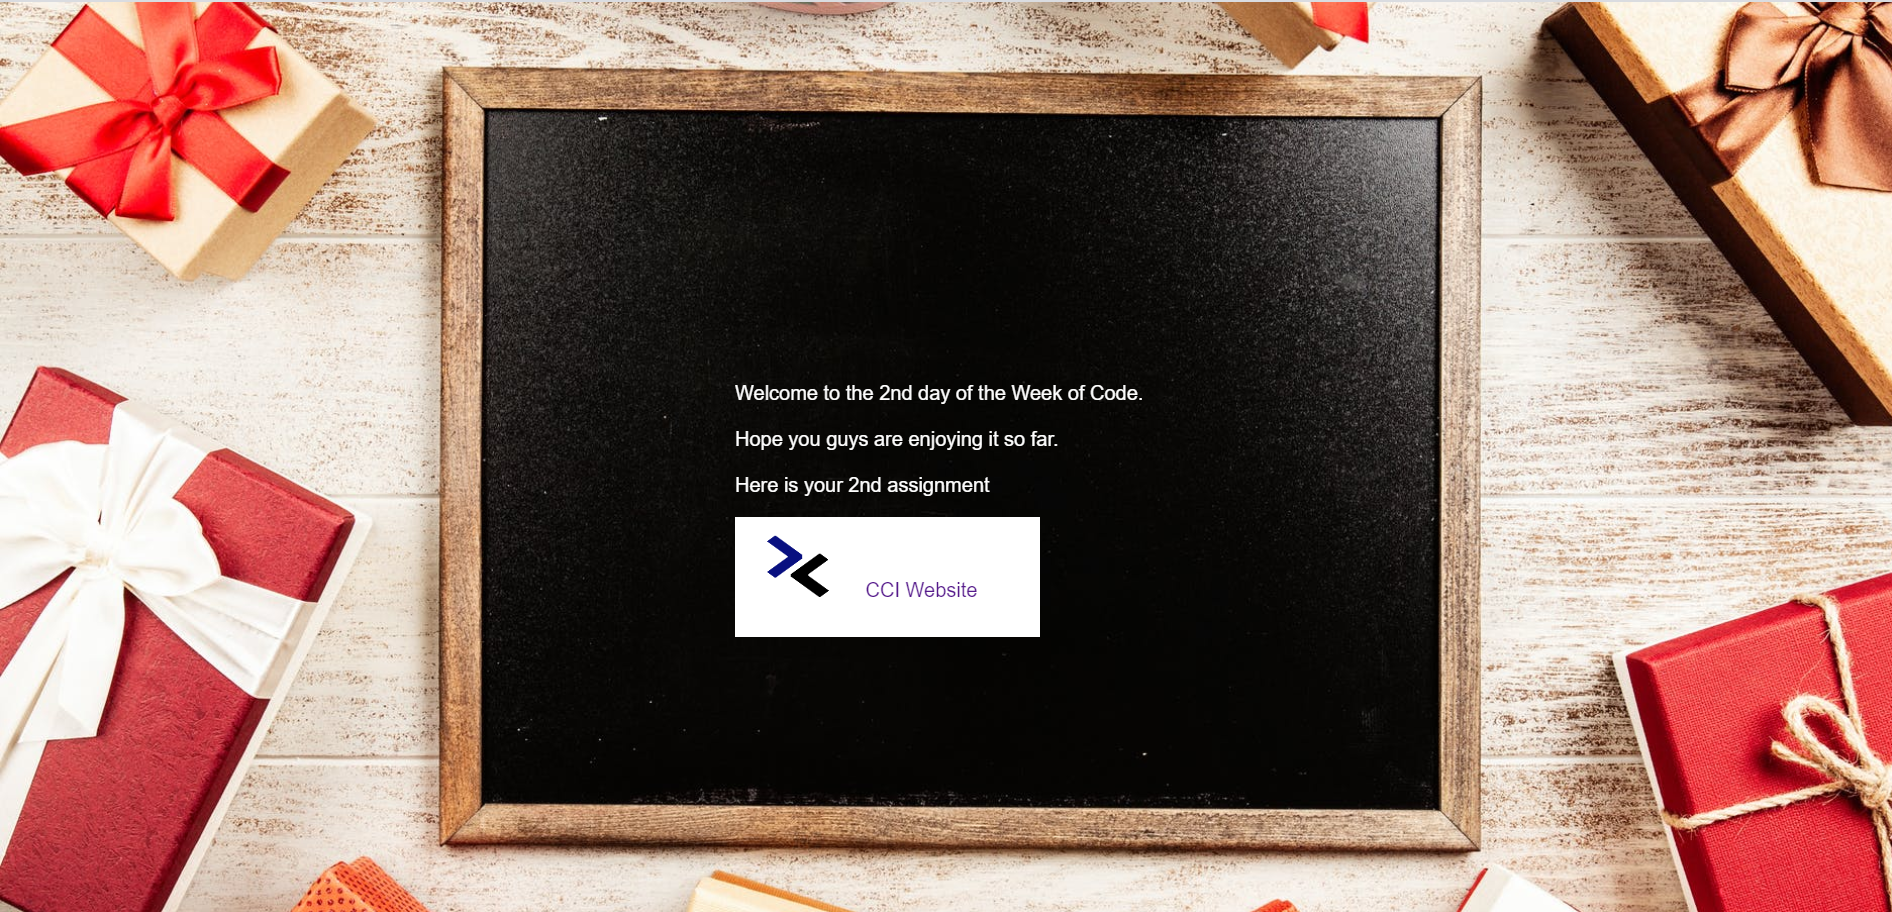
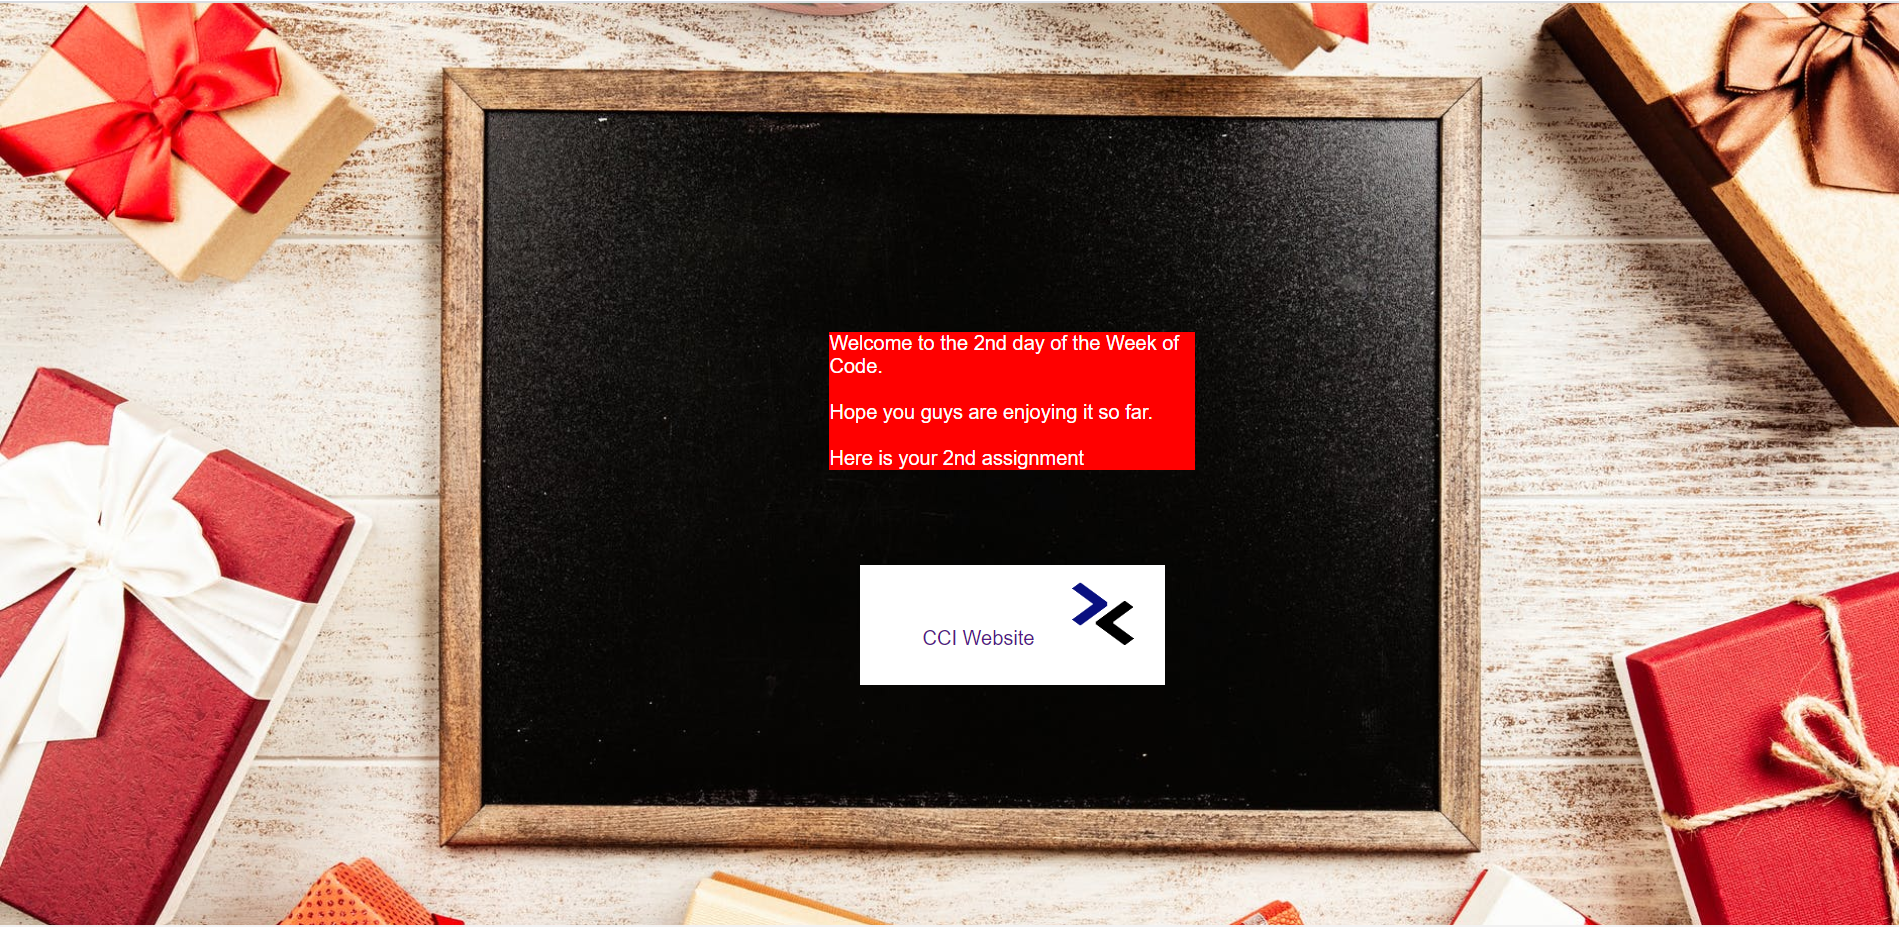
Second commit for assignment 2

diff --git a/Day 2/Assignment2/home.html b/Day 2/Assignment2/home.html
@@ -15,10 +15,6 @@
       text-decoration: none;
       display: inline-block;
     }
-    .box{
-      margin-left: 600px;
-    }
-
   </style>
 </head>
 <body>
@@ -27,8 +23,8 @@
       <p>Welcome to the 2nd day of the Week of Code.<br><br> Hope you guys are enjoying it so far. <br><br>Here is your 2nd assignment</p>
       </div>
       <div class="box">
-        <img src="download.png"alt="This is an image" width="50" height="50">
         <a href="https://cci-fisat.web.app/"> CCI Website </a>
+        <img src="download.png"alt="This is an image" width="50" height="50">
       </div>
     <br><br><br><br><br><br><br><br><br><br><br><br><br><br><br><br><br><br><br><br><br><br><br><br>
     <br><br><br><br><br><br><br>

diff --git a/Day 2/Assignment2/style.css b/Day 2/Assignment2/style.css
@@ -12,15 +12,15 @@
 }
 
 h1 {
-	color: bright;
+	color: white;
 	border: 2cm semi-solid blue;
-	margin: automatic;
+	margin: auto;
 }
 
 p {
-	background-color: red
+	background-color: red;
 	margin: 2cm;
-	border-side: 5cm;
+	border: 5cm;
 	text-decoration: none;
 }
 
@@ -30,11 +30,13 @@ ul {
 }
 .note{
 	padding-left: 600px;
-	padding-top: 300px;
+	padding-top: 200px;
+	padding-right: 500px;
 	color: white;
 
 }
 .box{
 	padding-left: 10px;
 	padding-top: 10px;
+	margin-left: 700px;
 }
